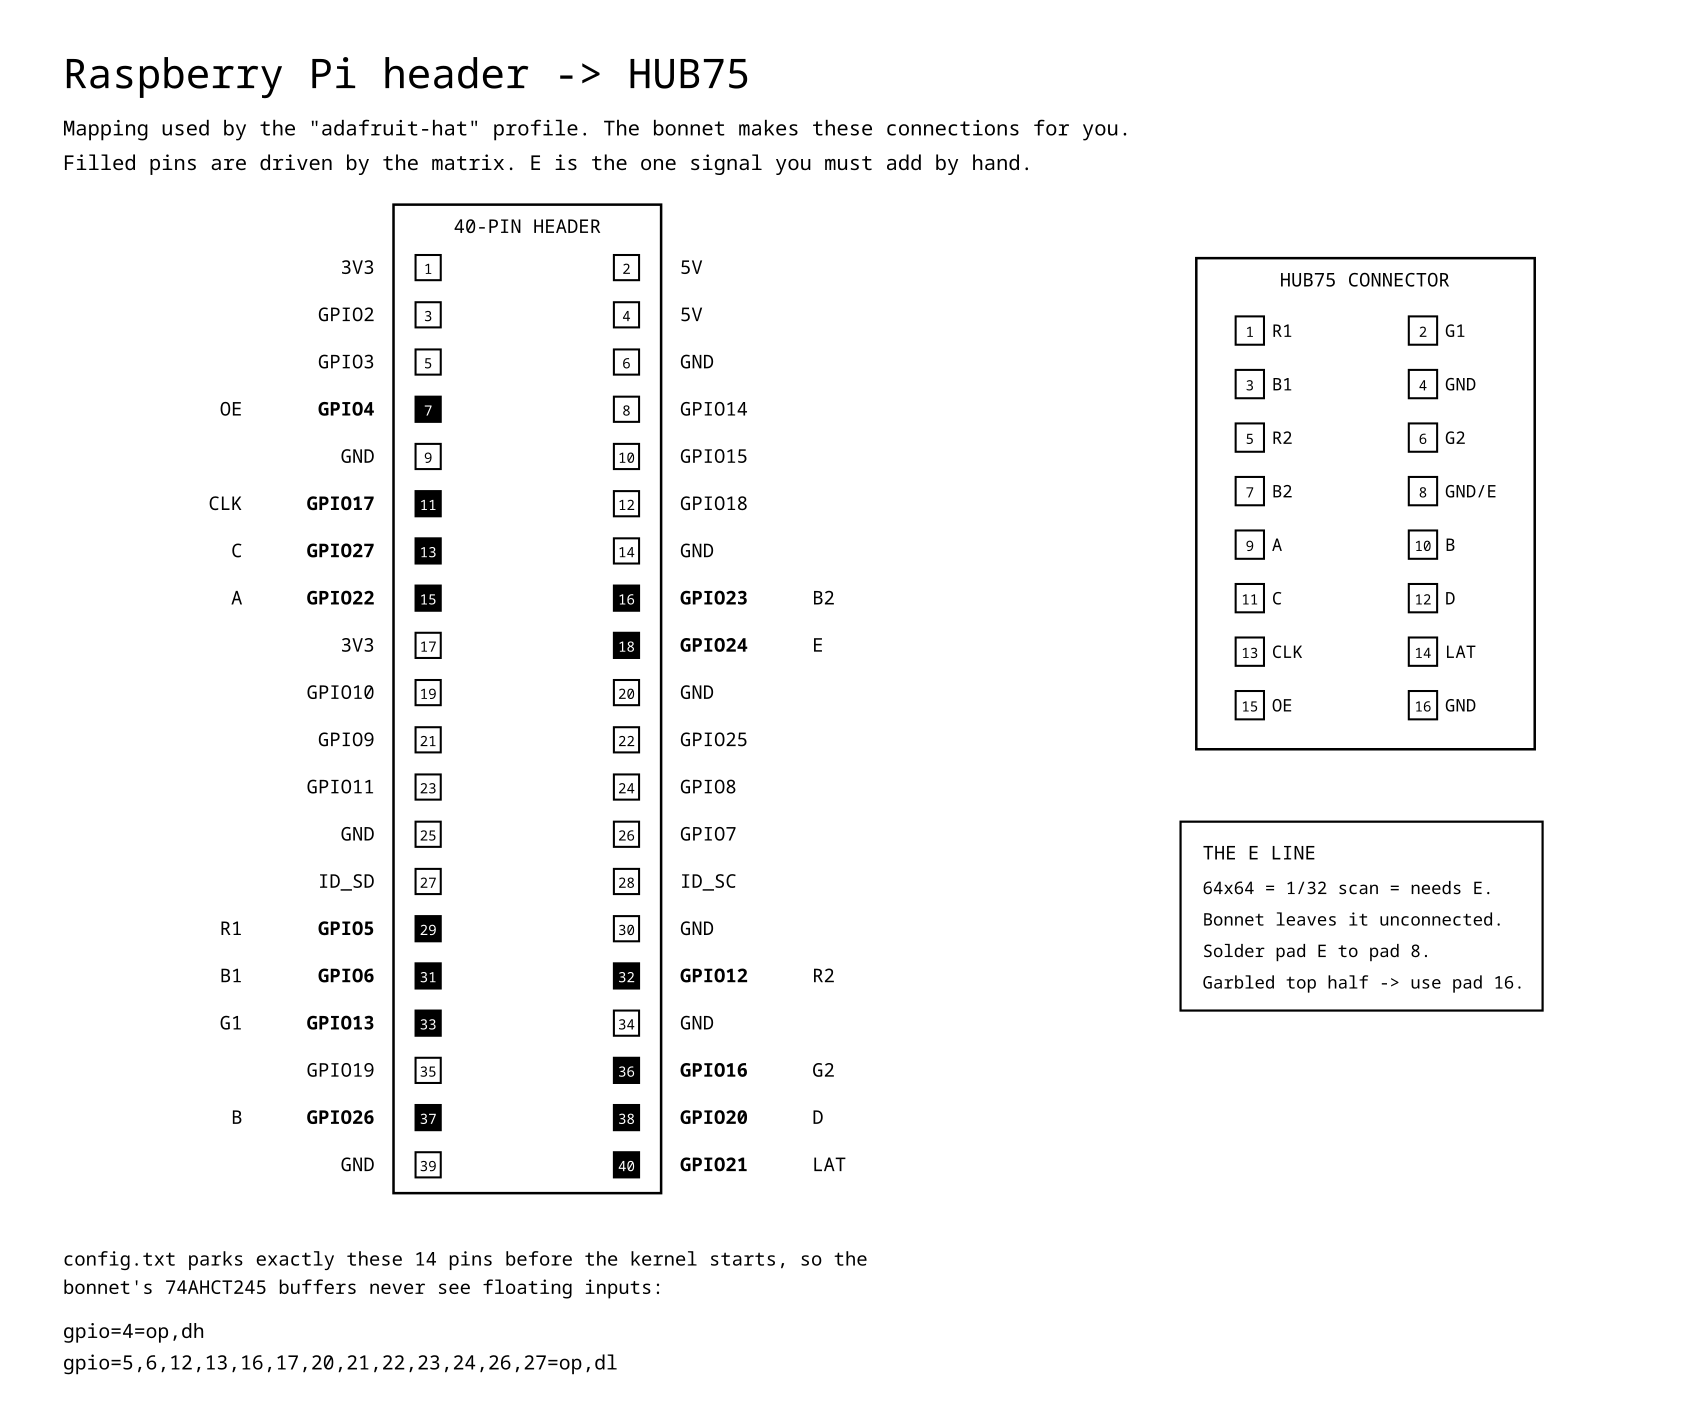
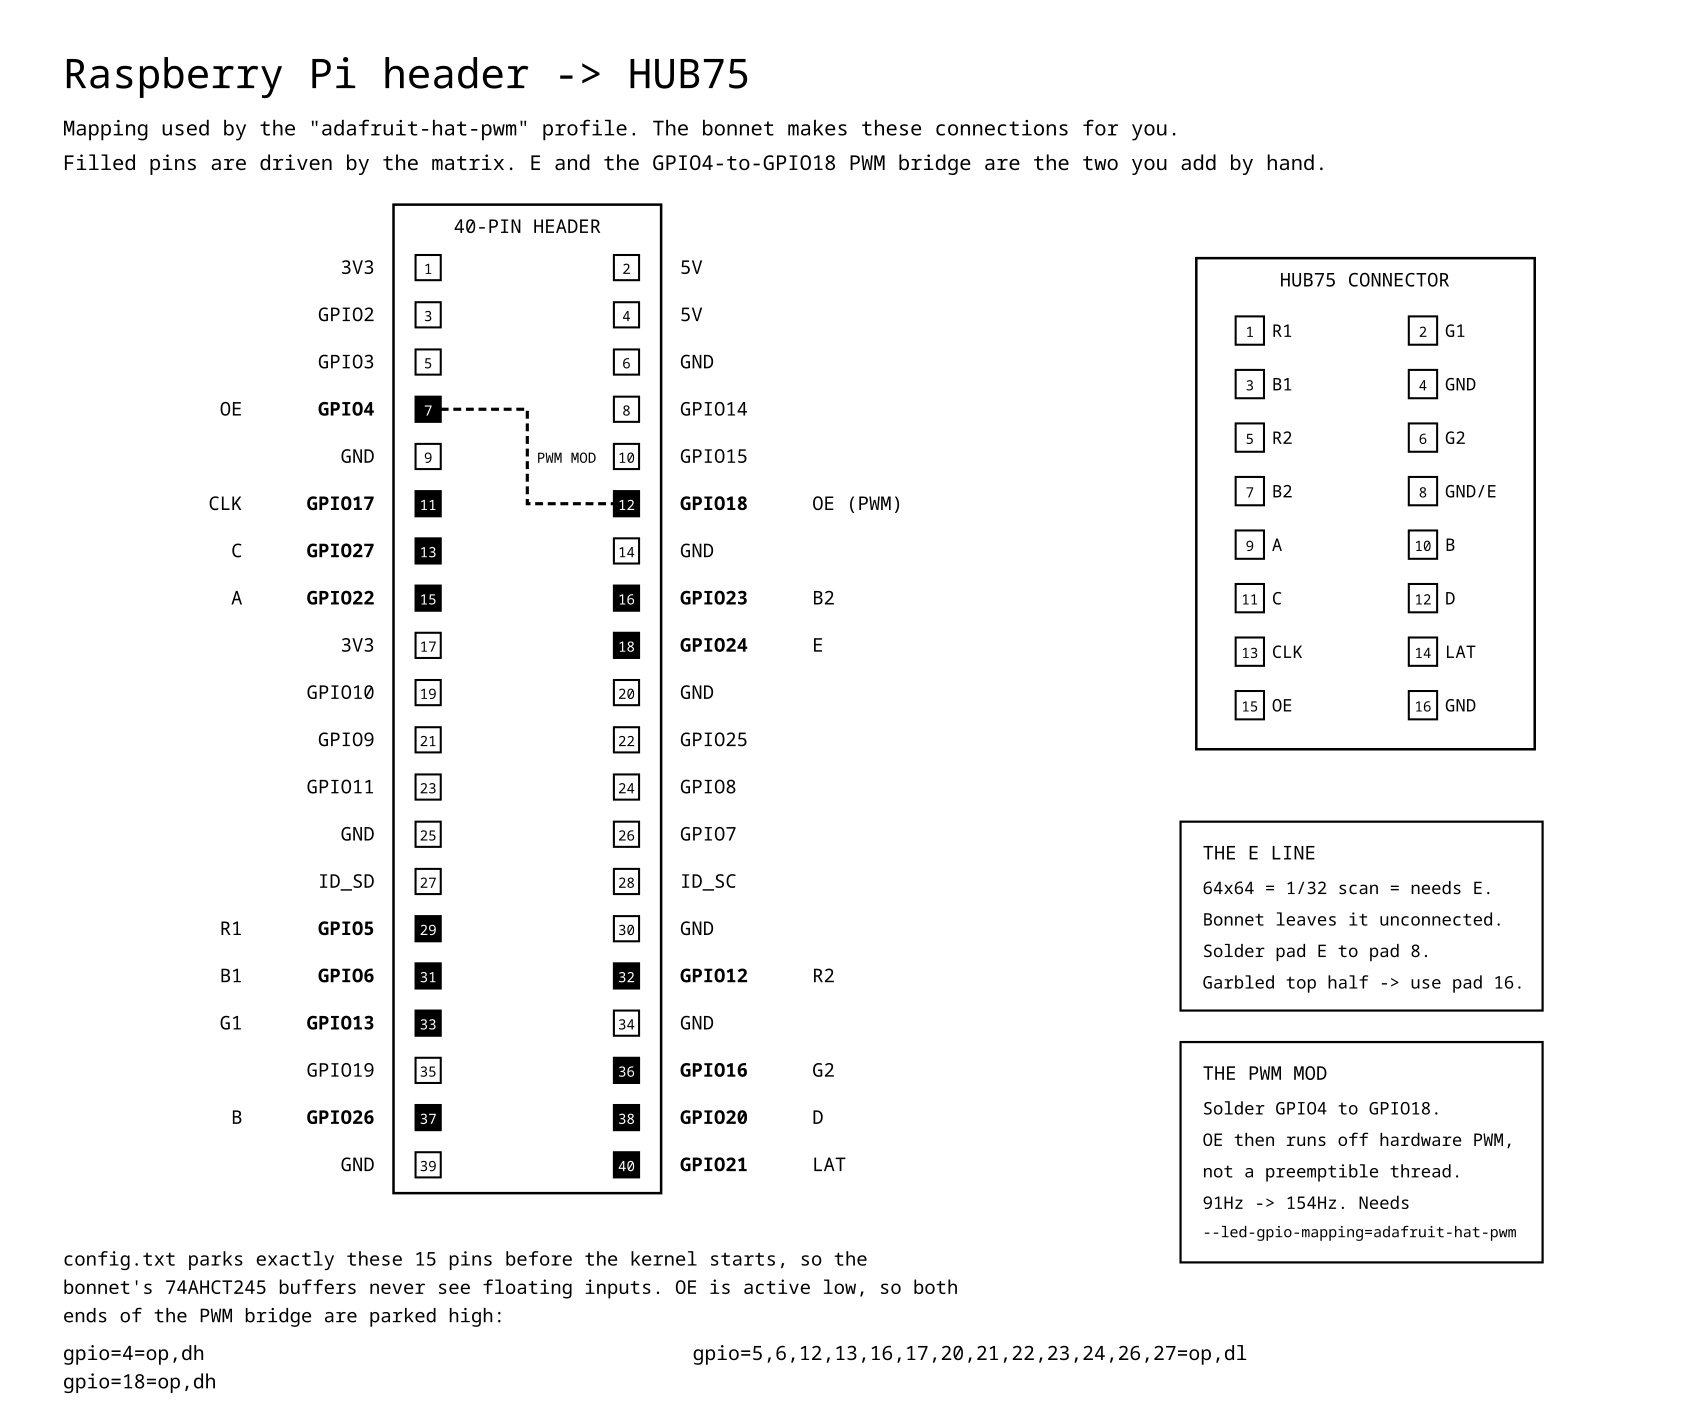
Show the PWM mod in the wiring and pinout diagrams
The diagrams still documented the adafruit-hat mapping with the E bridge
as the only hand-made connection. Both now show the GPIO4-to-GPIO18
bridge that moves OE onto the hardware PWM peripheral, and the pinout
switches to the adafruit-hat-pwm mapping and the 15-pin config.txt park
list that goes with it.

diff --git a/docs/diagrams/make_pinout.py b/docs/diagrams/make_pinout.py
@@ -1,8 +1,10 @@
 #!/usr/bin/env python3
 """Generate the GPIO / HUB75 signal mapping diagram.
 
-Pin assignments are taken from the `adafruit-hat` entry in
-hzeller/rpi-rgb-led-matrix lib/hardware-mapping.c
+Pin assignments are taken from the `adafruit-hat-pwm` entry in
+hzeller/rpi-rgb-led-matrix lib/hardware-mapping.c. That profile is identical
+to `adafruit-hat` except OE moves from GPIO4 to GPIO18, which is why the
+GPIO4-to-GPIO18 solder bridge is needed.
 """
 from pathlib import Path
 
@@ -15,9 +17,11 @@ HEADER = [
     "GPIO13", "GND", "GPIO19", "GPIO16", "GPIO26", "GPIO20", "GND", "GPIO21",
 ]
 
-# GPIO -> HUB75 signal, from the adafruit-hat mapping
+# GPIO -> HUB75 signal, from the adafruit-hat mapping.
+# GPIO18 carries OE once the PWM mod is fitted; GPIO4 still drives the pad the
+# bonnet wired, so both ends of the bridge are shown.
 MATRIX = {
-    "GPIO4": "OE", "GPIO17": "CLK", "GPIO21": "LAT",
+    "GPIO4": "OE", "GPIO18": "OE (PWM)", "GPIO17": "CLK", "GPIO21": "LAT",
     "GPIO22": "A", "GPIO26": "B", "GPIO27": "C", "GPIO20": "D", "GPIO24": "E",
     "GPIO5": "R1", "GPIO13": "G1", "GPIO6": "B1",
     "GPIO12": "R2", "GPIO16": "G2", "GPIO23": "B2",
@@ -40,10 +44,10 @@ out = [
     f'font-family="DejaVu Sans Mono, Consolas, monospace">',
     f'<rect width="{W}" height="{H}" fill="#ffffff"/>',
     '<text x="40" y="56" font-size="26" fill="#000">Raspberry Pi header -&gt; HUB75</text>',
-    '<text x="40" y="86" font-size="13" fill="#000">Mapping used by the "adafruit-hat" profile. '
+    '<text x="40" y="86" font-size="13" fill="#000">Mapping used by the "adafruit-hat-pwm" profile. '
     'The bonnet makes these connections for you.</text>',
     '<text x="40" y="108" font-size="13" fill="#000">Filled pins are driven by the matrix. '
-    'E is the one signal you must add by hand.</text>',
+    'E and the GPIO4-to-GPIO18 PWM bridge are the two you add by hand.</text>',
 ]
 
 # header outline
@@ -81,6 +85,15 @@ for row in range(20):
             if used:
                 out.append(f'<text x="{RIGHT_X + 96}" y="{y + 4}" font-size="12" fill="#000">{MATRIX[label]}</text>')
 
+# the PWM mod bridge, drawn in the empty gutter between the two pin columns:
+# pin 7 (GPIO4) to pin 12 (GPIO18)
+BR_Y4 = TOP + 20 + 3 * ROW
+BR_Y18 = TOP + 20 + 5 * ROW
+BR_X = (LEFT_X + RIGHT_X) / 2
+out.append(f'<path d="M {LEFT_X + 30} {BR_Y4} H {BR_X} V {BR_Y18} H {RIGHT_X - 30}" '
+           f'fill="none" stroke="#000" stroke-width="2" stroke-dasharray="5 3"/>')
+out.append(f'<text x="{BR_X + 6}" y="{(BR_Y4 + BR_Y18) / 2 + 4}" font-size="9" fill="#000">PWM MOD</text>')
+
 # HUB75 connector
 HX, HY = 760, TOP + 40
 out.append(f'<rect x="{HX}" y="{HY - 26}" width="215" height="{8 * 34 + 40}" fill="#fff" '
@@ -105,13 +118,25 @@ out.append(f'<text x="{HX + 4}" y="{NY + 66}" font-size="11" fill="#000">Bonnet 
 out.append(f'<text x="{HX + 4}" y="{NY + 86}" font-size="11" fill="#000">Solder pad E to pad 8.</text>')
 out.append(f'<text x="{HX + 4}" y="{NY + 106}" font-size="11" fill="#000">Garbled top half -&gt; use pad 16.</text>')
 
+# PWM mod note
+PY = NY + 140
+out.append(f'<rect x="{HX - 10}" y="{PY}" width="230" height="140" fill="#fff" stroke="#000" stroke-width="1.4"/>')
+out.append(f'<text x="{HX + 4}" y="{PY + 24}" font-size="12" fill="#000">THE PWM MOD</text>')
+out.append(f'<text x="{HX + 4}" y="{PY + 46}" font-size="11" fill="#000">Solder GPIO4 to GPIO18.</text>')
+out.append(f'<text x="{HX + 4}" y="{PY + 66}" font-size="11" fill="#000">OE then runs off hardware PWM,</text>')
+out.append(f'<text x="{HX + 4}" y="{PY + 86}" font-size="11" fill="#000">not a preemptible thread.</text>')
+out.append(f'<text x="{HX + 4}" y="{PY + 106}" font-size="11" fill="#000">91Hz -&gt; 154Hz. Needs</text>')
+out.append(f'<text x="{HX + 4}" y="{PY + 124}" font-size="9.5" fill="#000">--led-gpio-mapping=adafruit-hat-pwm</text>')
+
 # config.txt note
-out.append(f'<text x="40" y="{H - 96}" font-size="12" fill="#000">config.txt parks exactly these 14 pins '
+out.append(f'<text x="40" y="{H - 96}" font-size="12" fill="#000">config.txt parks exactly these 15 pins '
            f'before the kernel starts, so the</text>')
 out.append(f'<text x="40" y="{H - 78}" font-size="12" fill="#000">bonnet\'s 74AHCT245 buffers never see '
-           f'floating inputs:</text>')
-out.append(f'<text x="40" y="{H - 50}" font-size="12.5" fill="#000">gpio=4=op,dh</text>')
-out.append(f'<text x="40" y="{H - 30}" font-size="12.5" fill="#000">'
+           f'floating inputs. OE is active low, so both</text>')
+out.append(f'<text x="40" y="{H - 60}" font-size="12" fill="#000">ends of the PWM bridge are parked high:</text>')
+out.append(f'<text x="40" y="{H - 36}" font-size="12.5" fill="#000">gpio=4=op,dh</text>')
+out.append(f'<text x="40" y="{H - 18}" font-size="12.5" fill="#000">gpio=18=op,dh</text>')
+out.append(f'<text x="440" y="{H - 36}" font-size="12.5" fill="#000">'
            f'gpio=5,6,12,13,16,17,20,21,22,23,24,26,27=op,dl</text>')
 
 out.append('</svg>')

diff --git a/README.md b/README.md
@@ -34,7 +34,7 @@ Both directions of the switch are animated.
 
 ![Wiring diagram](docs/images/wiring.png)
 
-*Every connection you actually make: PSU into the bonnet's screw terminal, the 4-pin harness out to the panel, the 16-way ribbon into INPUT, and the bonnet seated on the Pi's header.*
+*Every connection you actually make: PSU into the bonnet's screw terminal, the 4-pin harness out to the panel, the 16-way ribbon into INPUT, the bonnet seated on the Pi's header, and the two solder bridges on the bonnet — E to pad 8, and GPIO4 to GPIO18 for the PWM mod.*
 
 **One supply feeds everything.** The PSU goes into the bonnet's screw terminals, and the bonnet back-feeds the Pi through the GPIO header. **Do not also connect USB power** — two 5V supplies tied together through the header will fight each other and one will collapse, which shows up as the Pi resetting whenever the panel is energised.
 
@@ -44,11 +44,11 @@ Both panel cables are needed: the 16-pin HUB75 ribbon into the panel's **INPUT**
 
 ### Pin mapping
 
-The bonnet makes every signal connection for you — this is the reference for what it is doing, and for the one connection it does not make.
+The bonnet makes every signal connection for you — this is the reference for what it is doing, and for the two you add yourself.
 
 ![Pin mapping](docs/images/pinout.png)
 
-*Filled pins are driven by the matrix. Taken from the `adafruit-hat` profile in `lib/hardware-mapping.c`, which is also why the `config.txt` line above parks exactly those 14 pins.*
+*Filled pins are driven by the matrix. Taken from the `adafruit-hat-pwm` profile in `lib/hardware-mapping.c`, which is also why the `config.txt` lines above park exactly those 15 pins. The dashed line is the PWM mod: GPIO4 to GPIO18, which is what moves OE onto the hardware PWM peripheral.*
 
 ### The E address line
 
